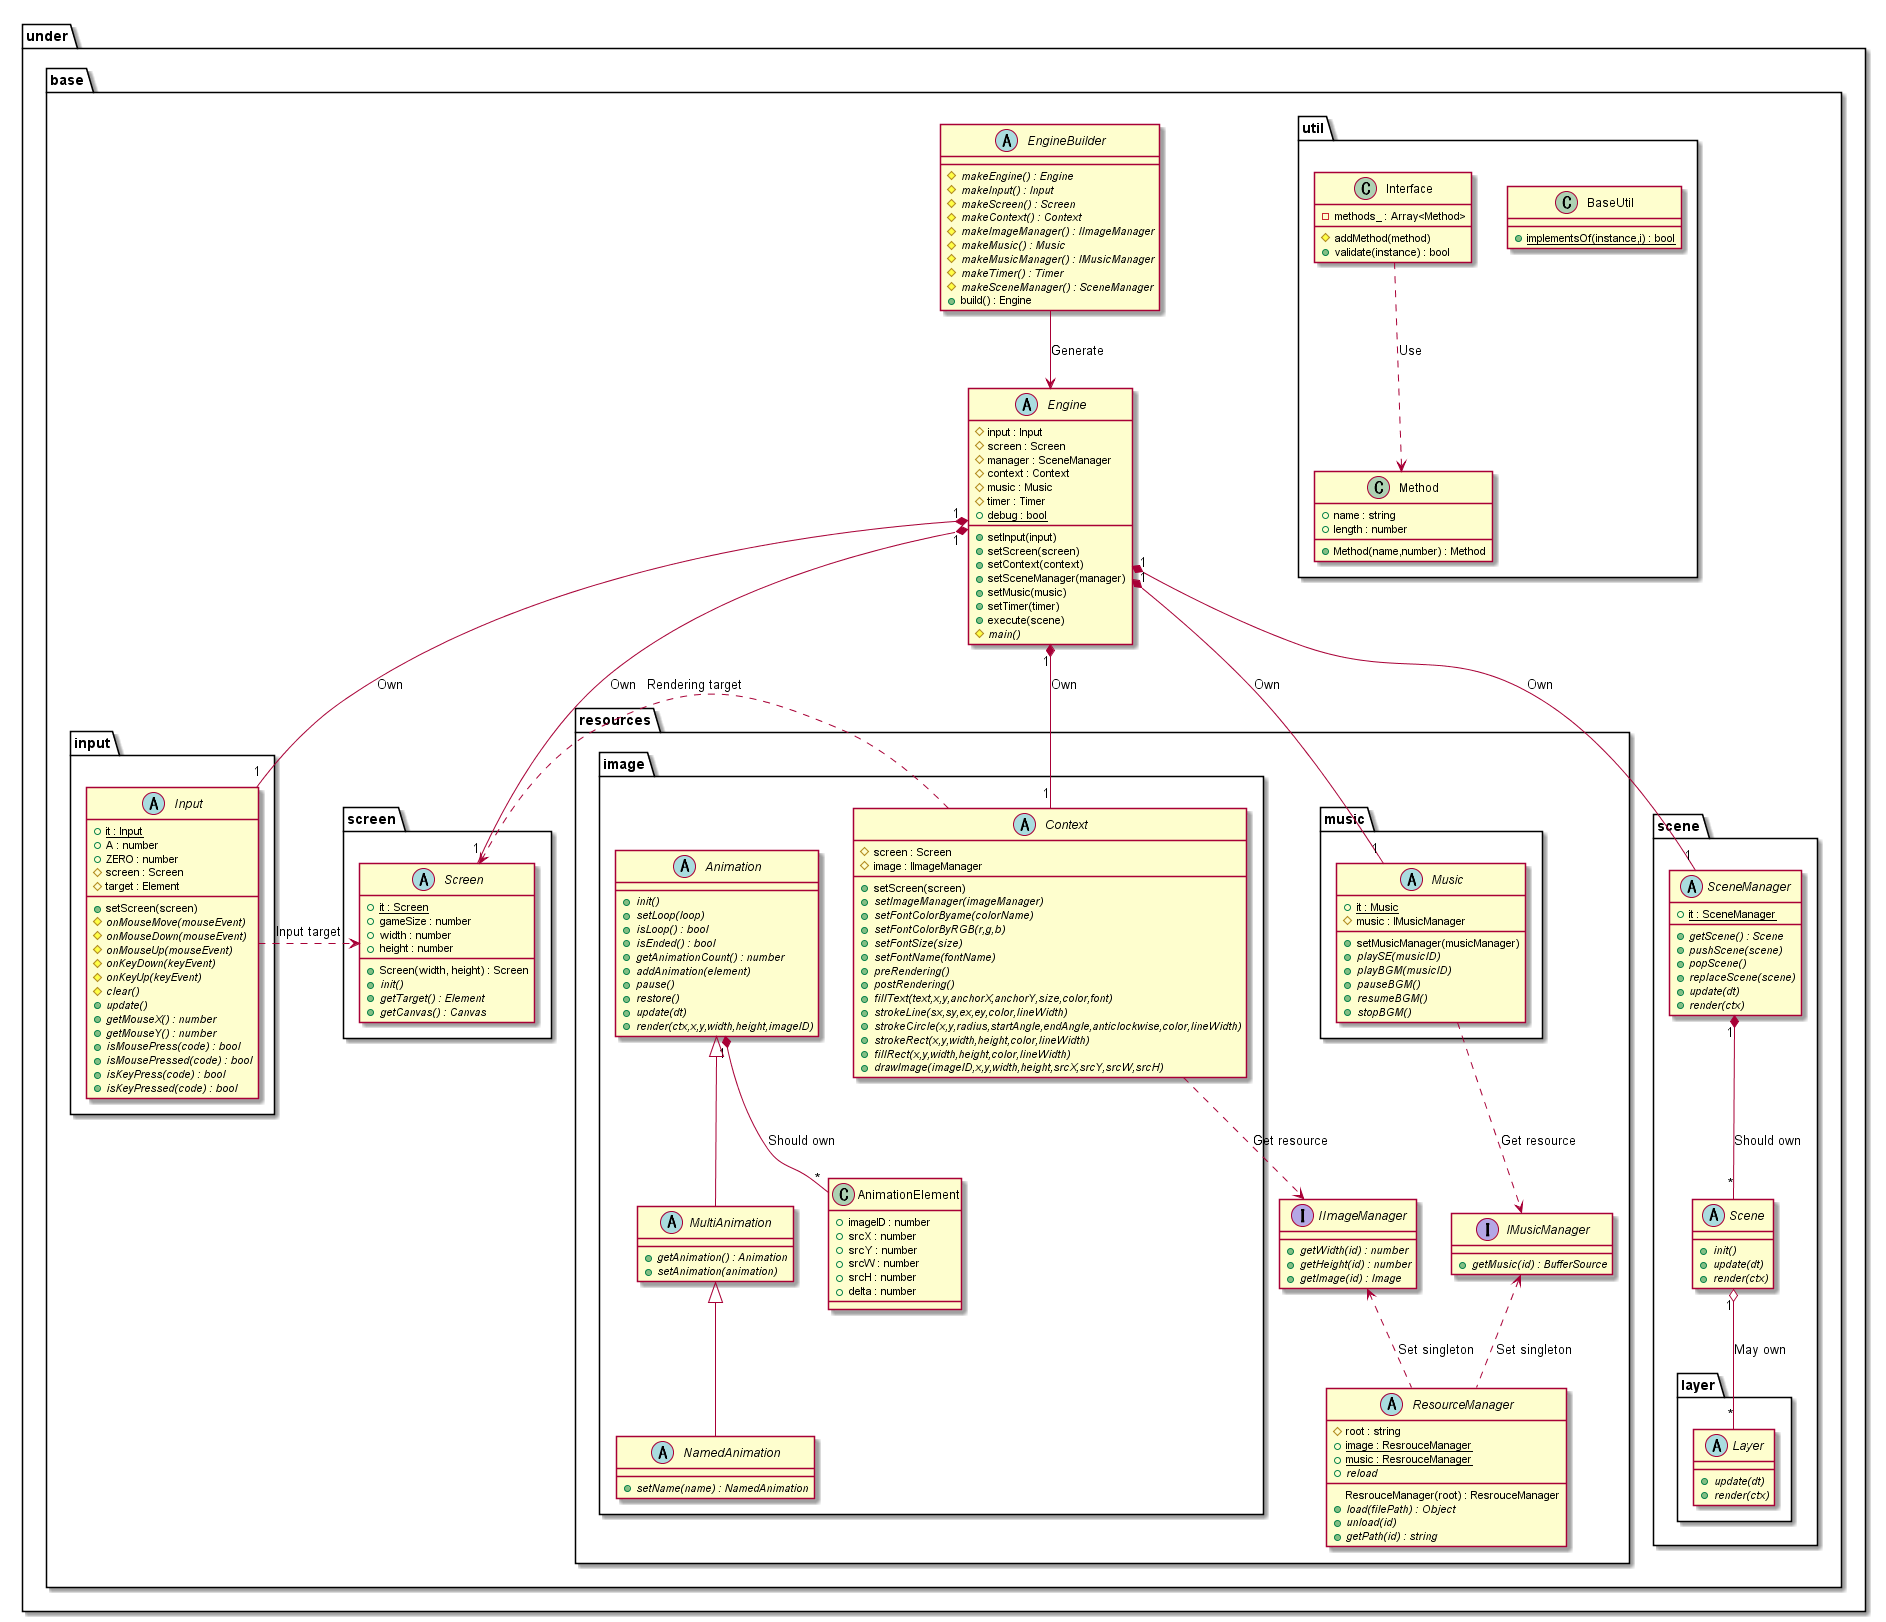
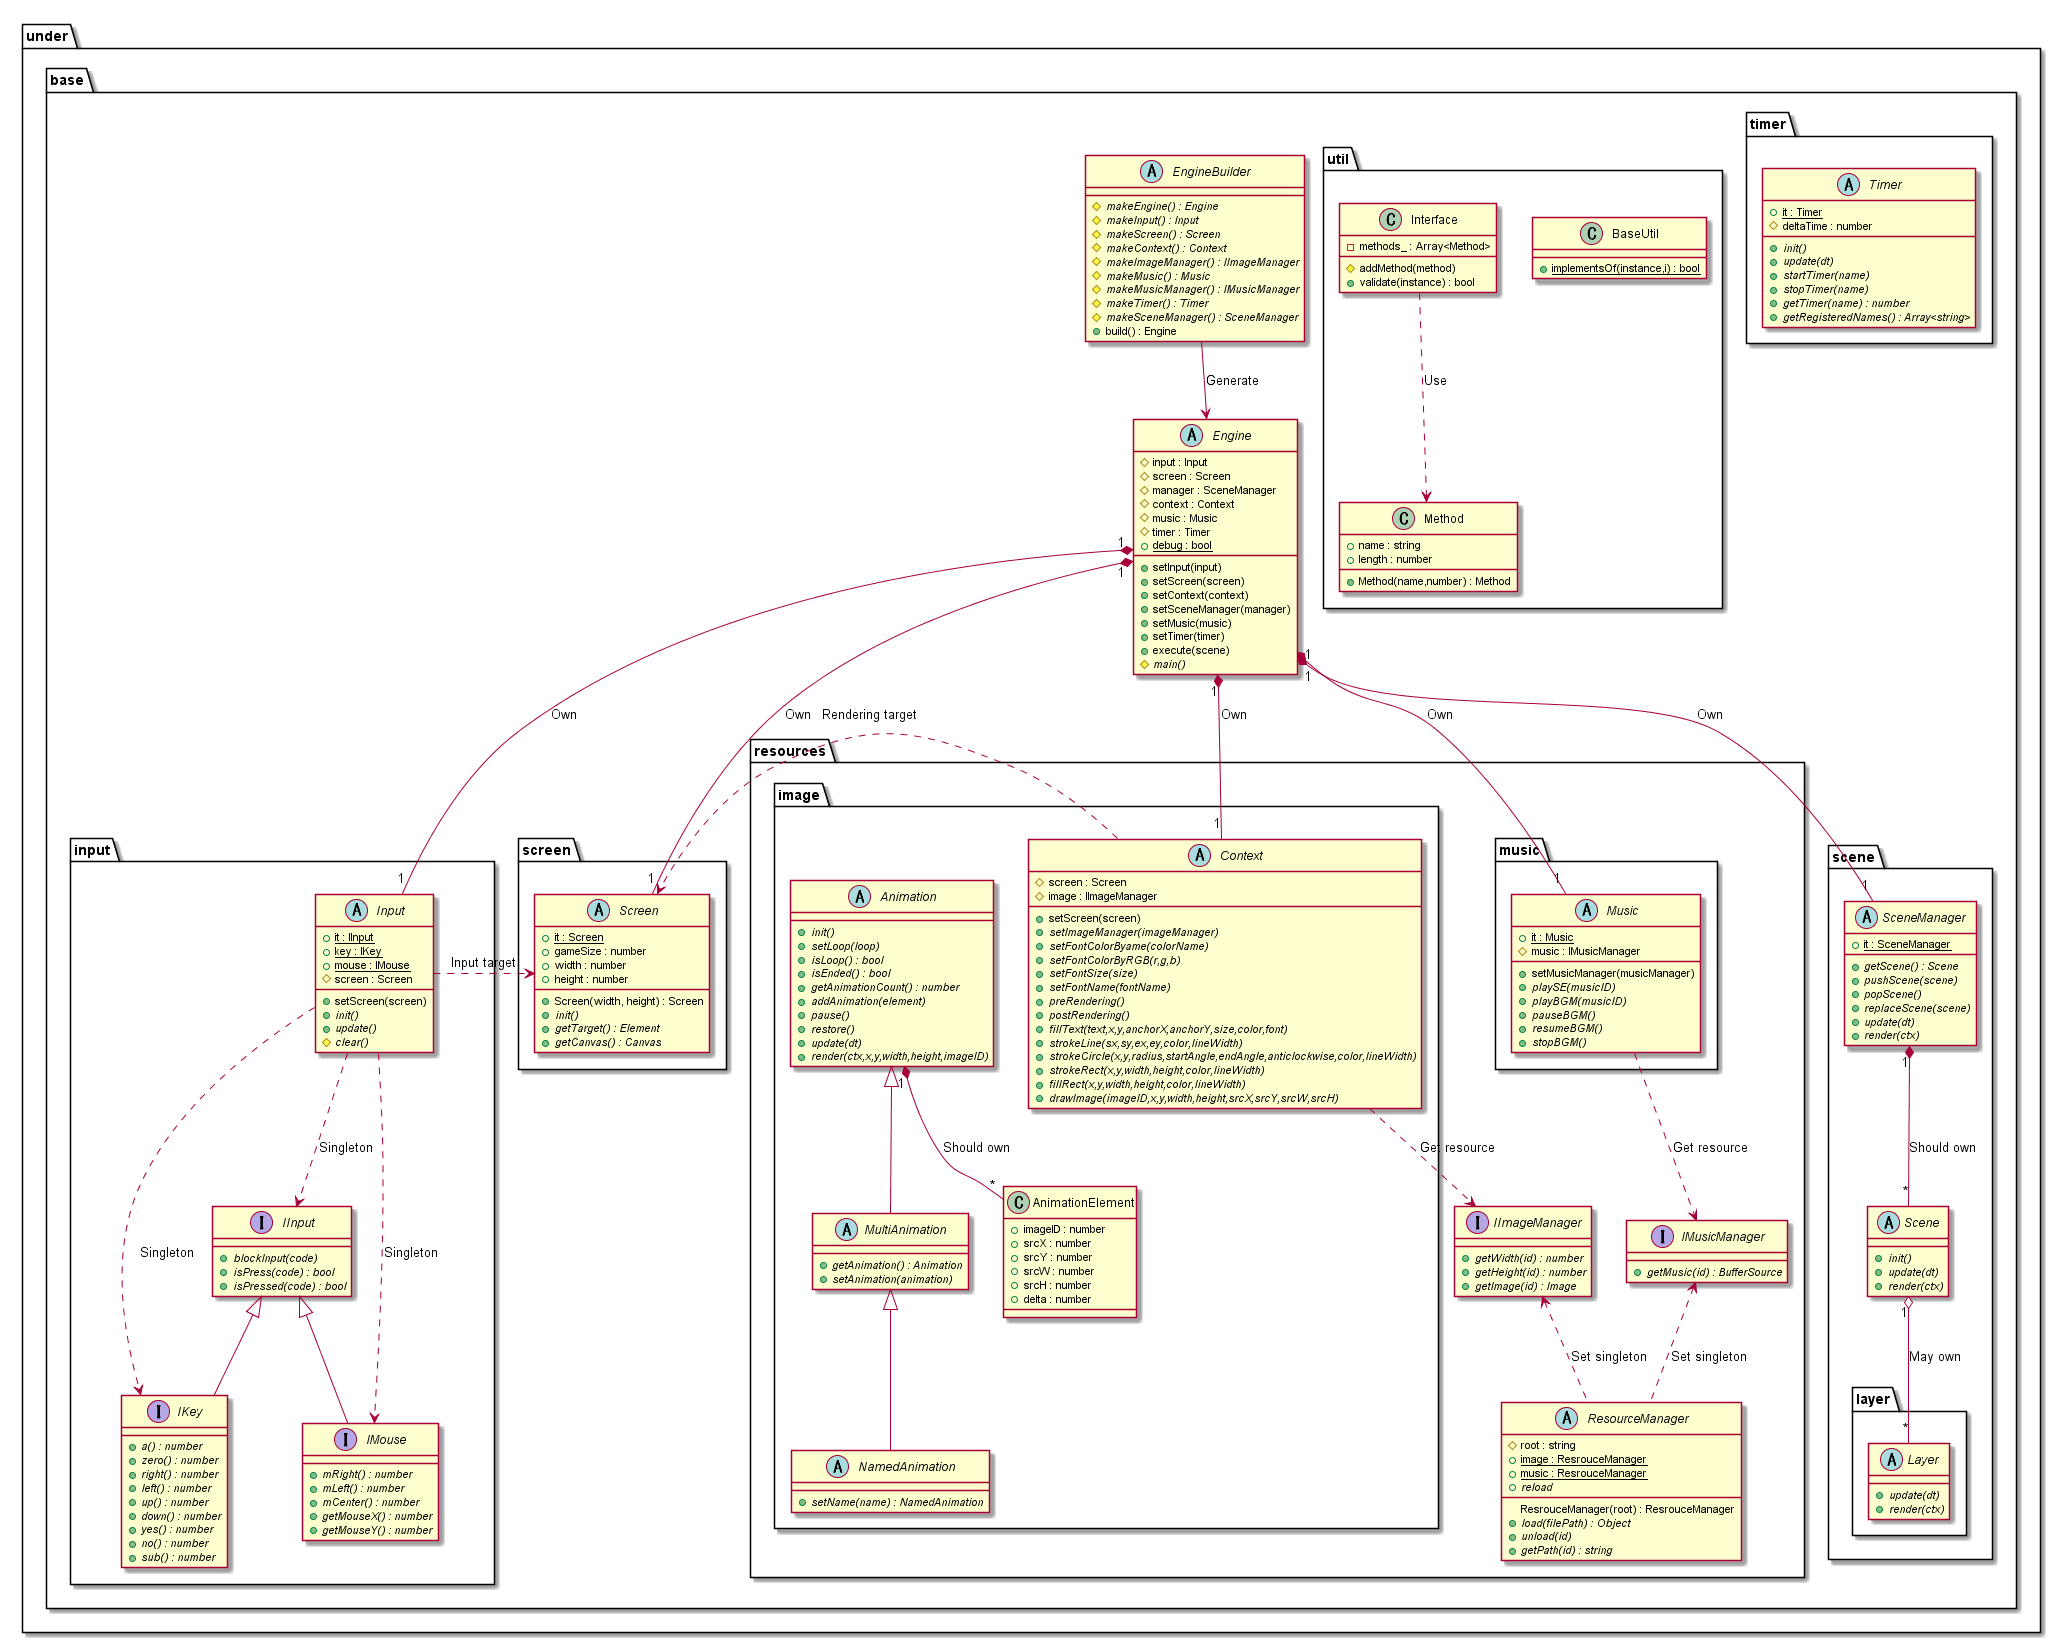
Add comment to timer and fix UML

Changed region(s): [[0.0, 0.0, 1.0, 1.0], [0.7996, 0.4316, 0.8611, 0.4624], [0.6766, 0.2158, 0.7073, 0.2466]]

diff --git a/src/res/js/under/extend/util/Util.js b/src/res/js/under/extend/util/Util.js
@@ -21,6 +21,7 @@ class Util { // eslint-disable-line  no-unused-vars
     /**
      * Get under entity
      * @param {Entity} entity Target entity
+     * @return {Entity} Under entity (if not, return null)
      */
     static getUnderEntity(entity) {
         let list = entity.collider.collisions;
@@ -29,11 +30,13 @@ class Util { // eslint-disable-line  no-unused-vars
                 return this.getCollidedEntity(entity, it);
             }
         }
+        return null;
     }
 
     /**
      * Get collided entity
      * @param {Entity} entity Target entity
+     * @return {Entity} Under entity (if not, return null)
      */
     static getSideEntity(entity) {
         let list = entity.collider.collisions;
@@ -46,6 +49,7 @@ class Util { // eslint-disable-line  no-unused-vars
                 return this.getCollidedEntity(entity, it);
             }
         }
+        return null;
     }
 
     /**
@@ -61,6 +65,7 @@ class Util { // eslint-disable-line  no-unused-vars
     /**
      * Load text file
      * @param {string} filePath File path
+     * @return {string} Loaded text
      */
     static loadFile(filePath) {
         let req = new XMLHttpRequest();

diff --git a/src/res/js/under/base/timer/Timer.js b/src/res/js/under/base/timer/Timer.js
@@ -1,6 +1,6 @@
 /**
  * Timer
- * Measure the time
+ * - ### Measure the time
  * @classdesc TImer to measure the time
  */
 class Timer { // eslint-disable-line  no-unused-vars
@@ -16,10 +16,7 @@ class Timer { // eslint-disable-line  no-unused-vars
          */
         this.deltaTime = 0;
 
-        /**
-         * Instance for singleton
-         * @type {Timer}
-         */
+        // set singleton
         Timer.it = this;
     }
     /**
@@ -62,7 +59,13 @@ class Timer { // eslint-disable-line  no-unused-vars
     /**
      * Get name of registered timer
      * @interface
-     * @return {Array<string>}
+     * @return {Array<string>} List of name of registered timer
      */
     getRegisteredNames() {}
 }
+
+/**
+ * Instance for singleton
+ * @type {Timer}
+ */
+Timer.it = null;

diff --git a/src/res/js/under/base/input/IMouse.js b/src/res/js/under/base/input/IMouse.js
@@ -1,8 +1,11 @@
 /**
- * Input system
- * Manages input event including mouse and key
- * Manages input state and provide input state
- * @classdesc Input system for managing input event
+ * Mouse interface
+ * - It can get input state
+ * - It can make input blocked
+ * - ### Get mouse code
+ * - ### Get mouse position
+ * @implements {IInput}
+ * @classdesc Mouse interface to get mouse code and position
  */
 class IMouse extends IInput { // eslint-disable-line  no-unused-vars
     /**

diff --git a/src/res/js/under/base/scene/SceneManager.js b/src/res/js/under/base/scene/SceneManager.js
@@ -9,10 +9,7 @@ class SceneManager { // eslint-disable-line  no-unused-vars
      * @constructor
      */
     constructor() {
-        /**
-         * Instance for singleton
-         * @type {SceneManager}
-         */
+        // set singleton
         SceneManager.it = this;
     }
 
@@ -57,3 +54,9 @@ class SceneManager { // eslint-disable-line  no-unused-vars
      */
     render(ctx) {}
 }
+
+/**
+ * Instance for singleton
+ * @type {SceneManager}
+ */
+SceneManager.it = null;

diff --git a/src/res/js/under/base/screen/Screen.js b/src/res/js/under/base/screen/Screen.js
@@ -27,11 +27,7 @@ class Screen { // eslint-disable-line  no-unused-vars
          */
         this.height = height;
 
-        /**
-         * Instance for singleton
-         * @static
-         * @type {Screen}
-         */
+        // set singleton
         Screen.it = this;
     }
 
@@ -53,3 +49,10 @@ class Screen { // eslint-disable-line  no-unused-vars
      */
     getCanvas() {}
 }
+
+/**
+ * Instance for singleton
+ * @static
+ * @type {Screen}
+ */
+Screen.it = null;

diff --git a/src/res/js/under/base/resources/music/Music.js b/src/res/js/under/base/resources/music/Music.js
@@ -16,11 +16,7 @@ class Music { // eslint-disable-line  no-unused-vars
          */
         this.music = null;
 
-        /**
-         * Instance for singleton
-         * @static
-         * @type {Music}
-         */
+        // set singleton
         Music.it = this;
     }
 
@@ -64,3 +60,10 @@ class Music { // eslint-disable-line  no-unused-vars
      */
     stopBGM() {}
 }
+
+/**
+ * Instance for singleton
+ * @static
+ * @type {Music}
+ */
+Music.it = null;

diff --git a/src/res/js/under/base/input/IKey.js b/src/res/js/under/base/input/IKey.js
@@ -1,8 +1,10 @@
 /**
- * Input system
- * Manages input event including mouse and key
- * Manages input state and provide input state
- * @classdesc Input system for managing input event
+ * Key interface
+ * - It can get input state
+ * - It can make input blocked
+ * - ### Get key code
+ * @implements {IInput}
+ * @classdesc Key interface to get key code
  */
 class IKey extends IInput { // eslint-disable-line  no-unused-vars
     /**

diff --git a/src/res/js/under/extend/input/MouseInput.js b/src/res/js/under/extend/input/MouseInput.js
@@ -1,7 +1,11 @@
 /**
  * Mouse input
  * - Manages input event
+ * - It can get input state
+ * - It can make input blocked
  * - Registers input state by input event
+ * - Get mouse code
+ * - Get mouse position
  * - ### Manages mouse input event and register state
  * @implements {StateInputManager}
  * @classdesc Mouse input to manage mouse input event and register state

diff --git a/src/res/js/under/extend/input/PreventKeyInput.js b/src/res/js/under/extend/input/PreventKeyInput.js
@@ -1,8 +1,10 @@
 /**
  * Prevent key input
  * - Manages input event
+ * - It can get input state
+ * - It can make input blocked
  * - Registers input state by input event
- * - Manages key input event and register state
+ * - Get key code
  * - ### Prevents default key function
  * @extends {KeyInput}
  * @classdesc Prevent key input to prevent default key function

diff --git a/src/res/js/under/extend/input/KeyInput.js b/src/res/js/under/extend/input/KeyInput.js
@@ -1,7 +1,10 @@
 /**
  * Key input
  * - Manages input event
+ * - It can get input state
+ * - It can make input blocked
  * - Registers input state by input event
+ * - Get key code
  * - ### Manages key input event and register state
  * @implements {StateInputManager}
  * @classdesc Key input to manage key input event and register state

diff --git a/src/res/js/under/extend/timer/SimpleTimer.js b/src/res/js/under/extend/timer/SimpleTimer.js
@@ -1,8 +1,9 @@
 /**
  * Simple Timer
- * Measure the time
+ * - Measure the time
+ * - ### Measure time by Date
  * @implements {Timer}
- * @classdesc Simple TImer to measure the time
+ * @classdesc Simple TImer to measure time by Date
  */
 class SimpleTimer extends Timer { // eslint-disable-line  no-unused-vars
     /**

diff --git a/src/res/js/under/extend/input/StateInputManager.js b/src/res/js/under/extend/input/StateInputManager.js
@@ -1,6 +1,8 @@
 /**
  * State input manager
  * - Manages input event
+ * - It can get input state
+ * - It can make input blocked
  * - ### Registers input state by input event
  * @implements {Input}
  * @classdesc State input manager to regiter input state by input event
